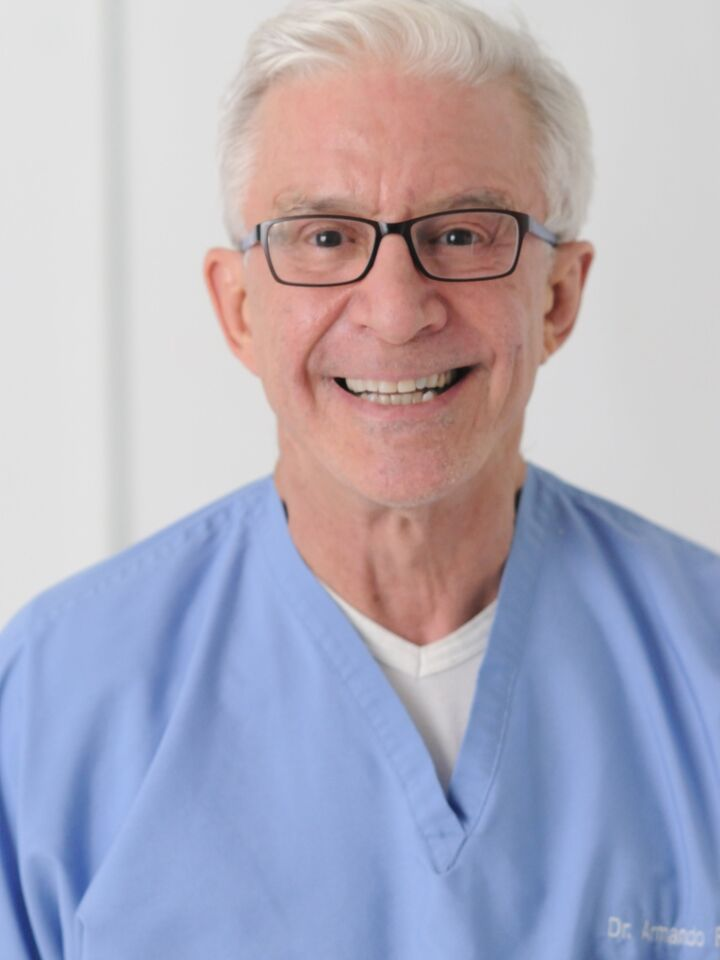
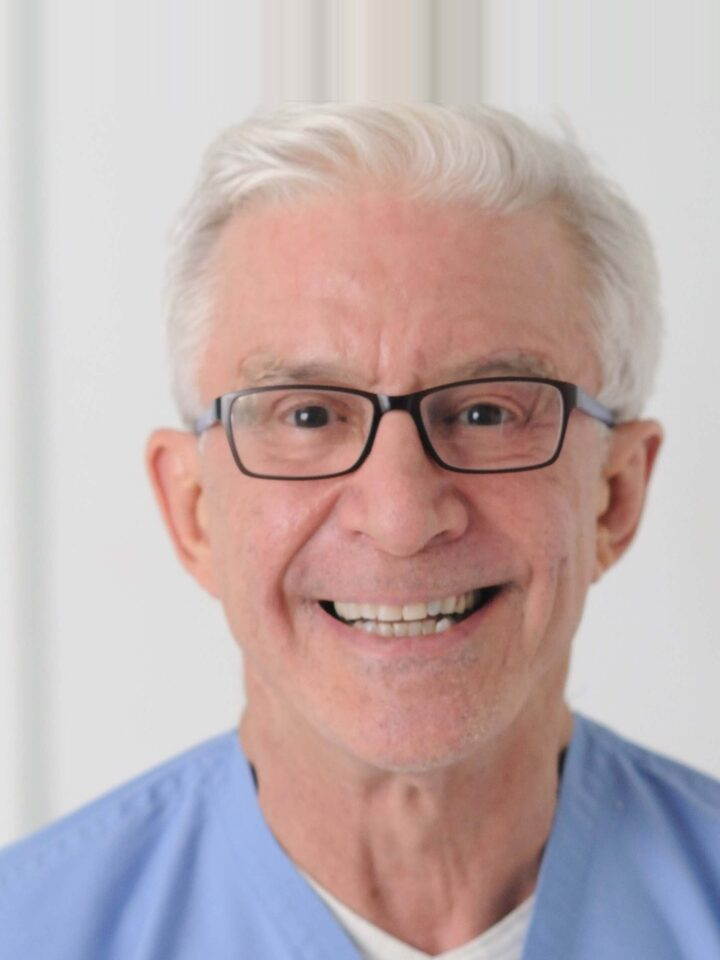
Frame the portrait as an oval cameo rather than an arch
The arch read as a headstone. An oval needed a different crop: the
original has his hair starting 1.7% down, with no headroom for an
ellipse to clear, so the canvas is extended upward by replicating a
clean background row (a stretched-and-blurred strip smeared the wall
edge into a visible streak) and the frame re-centred on his face.

diff --git a/style.css b/style.css
@@ -132,8 +132,8 @@ img { max-width: 100%; height: auto; display: block; }
   aspect-ratio: 3 / 4;
   object-fit: cover;
   margin: 0 auto var(--s4);
-  /* Arch-topped, the way a portrait is framed on a memorial card */
-  border-radius: 999px 999px 3px 3px;
+  /* An oval cameo, framing his face */
+  border-radius: 50%;
 }
 
 .hero-name {
